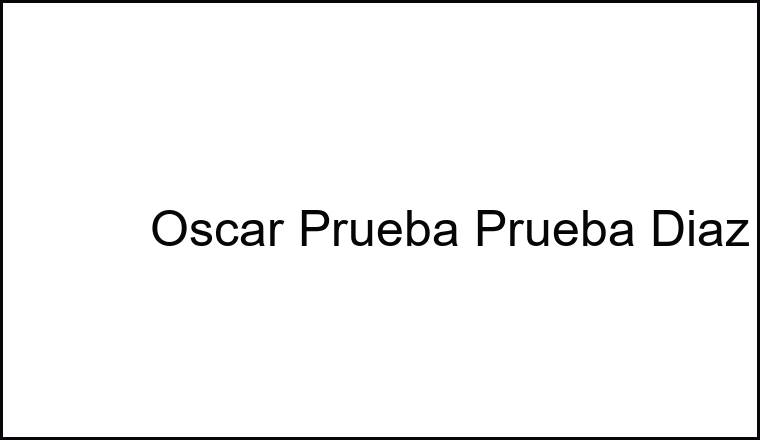
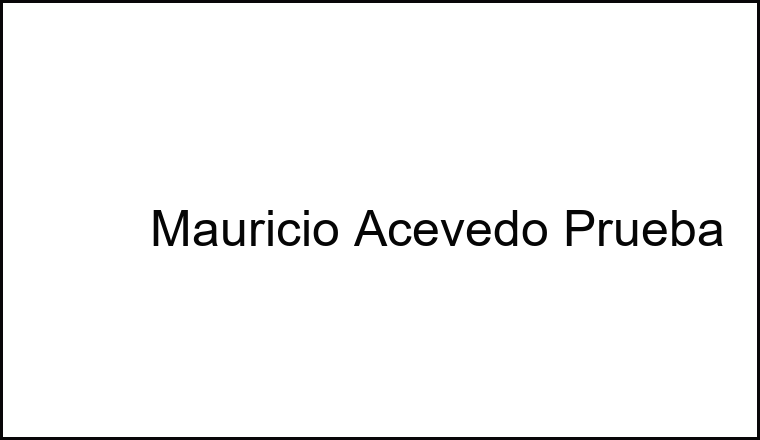
Muestra la firma ingresada y genera la imagen

Changed region(s): [[0.1816, 0.4727, 0.9987, 0.5614]]

diff --git a/CLAROGUI.py b/CLAROGUI.py
@@ -42,38 +42,41 @@ def resumen(nombre,apellido,tipofirma,carpetaentrada,carpetasalida):
     # else:
     #     Label(root, text="What have u done").pack()
     
-def cargarFirma(nombre,apellido,opcion):
+def cargarFirma(nombre,apellido,opcion,ubicFirma):
     
-    # Nombre y fecha
-    #Cargar Imagen de base
-    base=Image.open("base.png").convert("RGBA")
-    # Crear Capa Para superponer
-    txt=Image.new("RGBA",base.size,(255,255,255,0))
-    #Definir Fuente
-    fnt=ImageFont.truetype("arial.ttf",50)
-    Nombres=ImageDraw.Draw(txt)
+    if opcion=="Manuscrito":
+        firmapuesta = Image.open(ubicFirma)
+        firmapuesta = firmapuesta.resize((220,80))
+        firmapuestaimg = ImageTk.PhotoImage(firmapuesta)
+                              
+        firmafinal = Label(firmamos,image=firmapuestaimg) 
+        firmafinal.image = firmapuestaimg
+        firmafinal.grid(row=1, column=0,padx=80)
+    else:
+        base=Image.open("base.png").convert("RGBA")
+        txt=Image.new("RGBA",base.size,(255,255,255,0))
+        fnt=ImageFont.truetype("arial.ttf",50)
+        Nombres=ImageDraw.Draw(txt)
+        Nombres.text((150,200),str(nombre)+" "+str(apellido),font=fnt,fill=(0,0,0,250))
+        out=Image.alpha_composite(base,txt)
+        out.save("Nombres.png")
 
-    #Dibujar Texto Con Transparencia 128
-    Nombres.text((150,200),str(nombre)+" "+str(apellido),font=fnt,fill=(0,0,0,250))
-
-
-     #Superponer
-    out=Image.alpha_composite(base,txt)
-    # #Mostrar
-    #out.show()
-    # Guardar
-    out.save("Nombres.png")
-    
-    #Fecha y Hora
-    today=datetime.today()
-
-    base_1=Image.open("base_1.png").convert("RGBA")
-    txt_1=Image.new("RGBA",base_1.size,(255,255,255,0))
-    Fecha=ImageDraw.Draw(txt_1)
-    Fecha.text((150,200),str(today),font=fnt,fill=(0,0,0,250))
-    out=Image.alpha_composite(base_1,txt_1)
-    #out.show()
-    out.save("Fecha_hora.png")
+        today=datetime.today()
+        base_1=Image.open("base_1.png").convert("RGBA")
+        txt_1=Image.new("RGBA",base_1.size,(255,255,255,0))
+        Fecha=ImageDraw.Draw(txt_1)
+        Fecha.text((150,200),str(today),font=fnt,fill=(0,0,0,250))
+        out=Image.alpha_composite(base_1,txt_1)
+        #out.show()
+        out.save("Fecha_hora.png")
+        
+        firmapuesta = Image.open("Nombres.png")
+        firmapuesta = firmapuesta.resize((220,80))
+        firmapuestaimg = ImageTk.PhotoImage(firmapuesta)
+                              
+        firmafinal = Label(firmamos,image=firmapuestaimg) 
+        firmafinal.image = firmapuestaimg
+        firmafinal.grid(row=1, column=0,padx=80)
 
 #----------------------------------------
 
@@ -83,7 +86,7 @@ def cargarFirma(nombre,apellido,opcion):
 root = Tk()
 
 #Tamaño de la ventana
-root.geometry("940x400")
+root.geometry("940x600")
 root.resizable(False,False) #No permite hacer la ventana mas grande
 
 #Permite colocarle un titulo al programa
@@ -125,6 +128,7 @@ LogoGPoner.grid(row=1, column=2)
 #------------Hacer los dos frames--------------
 ConfigInicial = Frame(root, bd=2, relief=SOLID, padx=10, pady=10)
 archivos = Frame(root, bd=2, relief=SOLID, padx=10, pady=10)
+firmamos = Frame(root, bd=2, relief=SOLID, padx=10, pady=10)
 #----------------------------------------------
 
 #------------------Para ingresar Nombre--------
@@ -157,11 +161,18 @@ ubicacionFirma = StringVar()
 Label(ConfigInicial, text="Cargar Firma: ", font=(fuente, 14)).grid(row=3, column=0, sticky=W, pady=10)
 botonCargar = Button(ConfigInicial, text="Abrir",command = abrirFirma,font=(fuente, 14)).grid(row=3, column=1, sticky=W, pady=10,padx=10)
 botonMostrar = Button(ConfigInicial, text="Cargar",
-                      command = lambda: cargarFirma(entradaNombre.get(),entradaApellido.get(),""),font=(fuente, 14)).grid(row=3, column=1, sticky=W, pady=10,padx=80)
+                      command = lambda: cargarFirma(entradaNombre.get(),entradaApellido.get(),Firmado.get(),ubicacionFirma.get()),font=(fuente, 14)).grid(row=3, column=1, sticky=W, pady=10,padx=80)
 #Label(ConfigInicial, text="...", textvariable = ubicacionFirma, font=(fuente, 14)).grid(row=4, column=0, sticky=W, pady=10) #Para probar nada mas
 #--------------------------------------------
 
 ConfigInicial.place(x=50, y=150)
+
+
+Label(firmamos, text="Firma ingresada: ", font=(fuente, 14)).grid(row=0, column=0, sticky=W, pady=10)
+
+
+
+firmamos.place(x=50,y=400)
 
 #--------Frame Derecho-------------------
 EntCarpeta = StringVar()
@@ -181,14 +192,6 @@ botonComenzar.grid(row=7, column=1, pady=10, padx=20)
 
 #-------------------------------------------
 archivos.place(x=500, y=150)
-
-
-
-
-
-
-
-
 
 
 root.mainloop()
